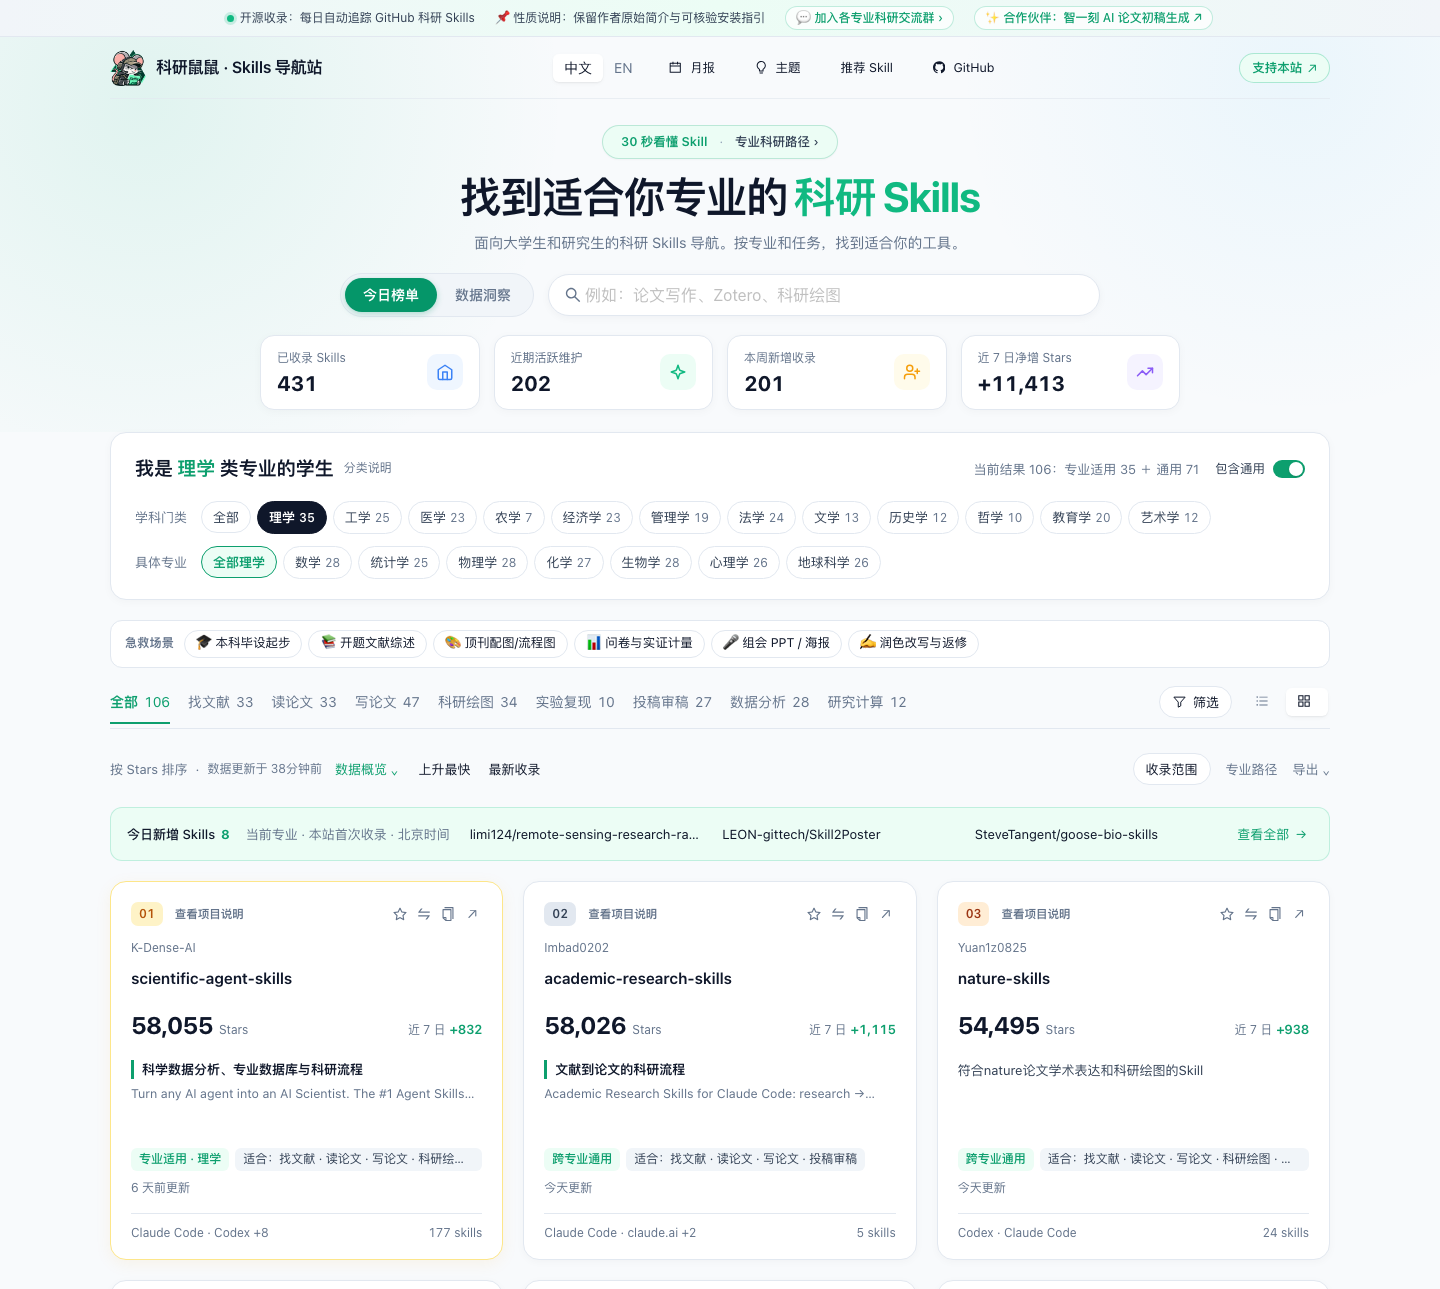
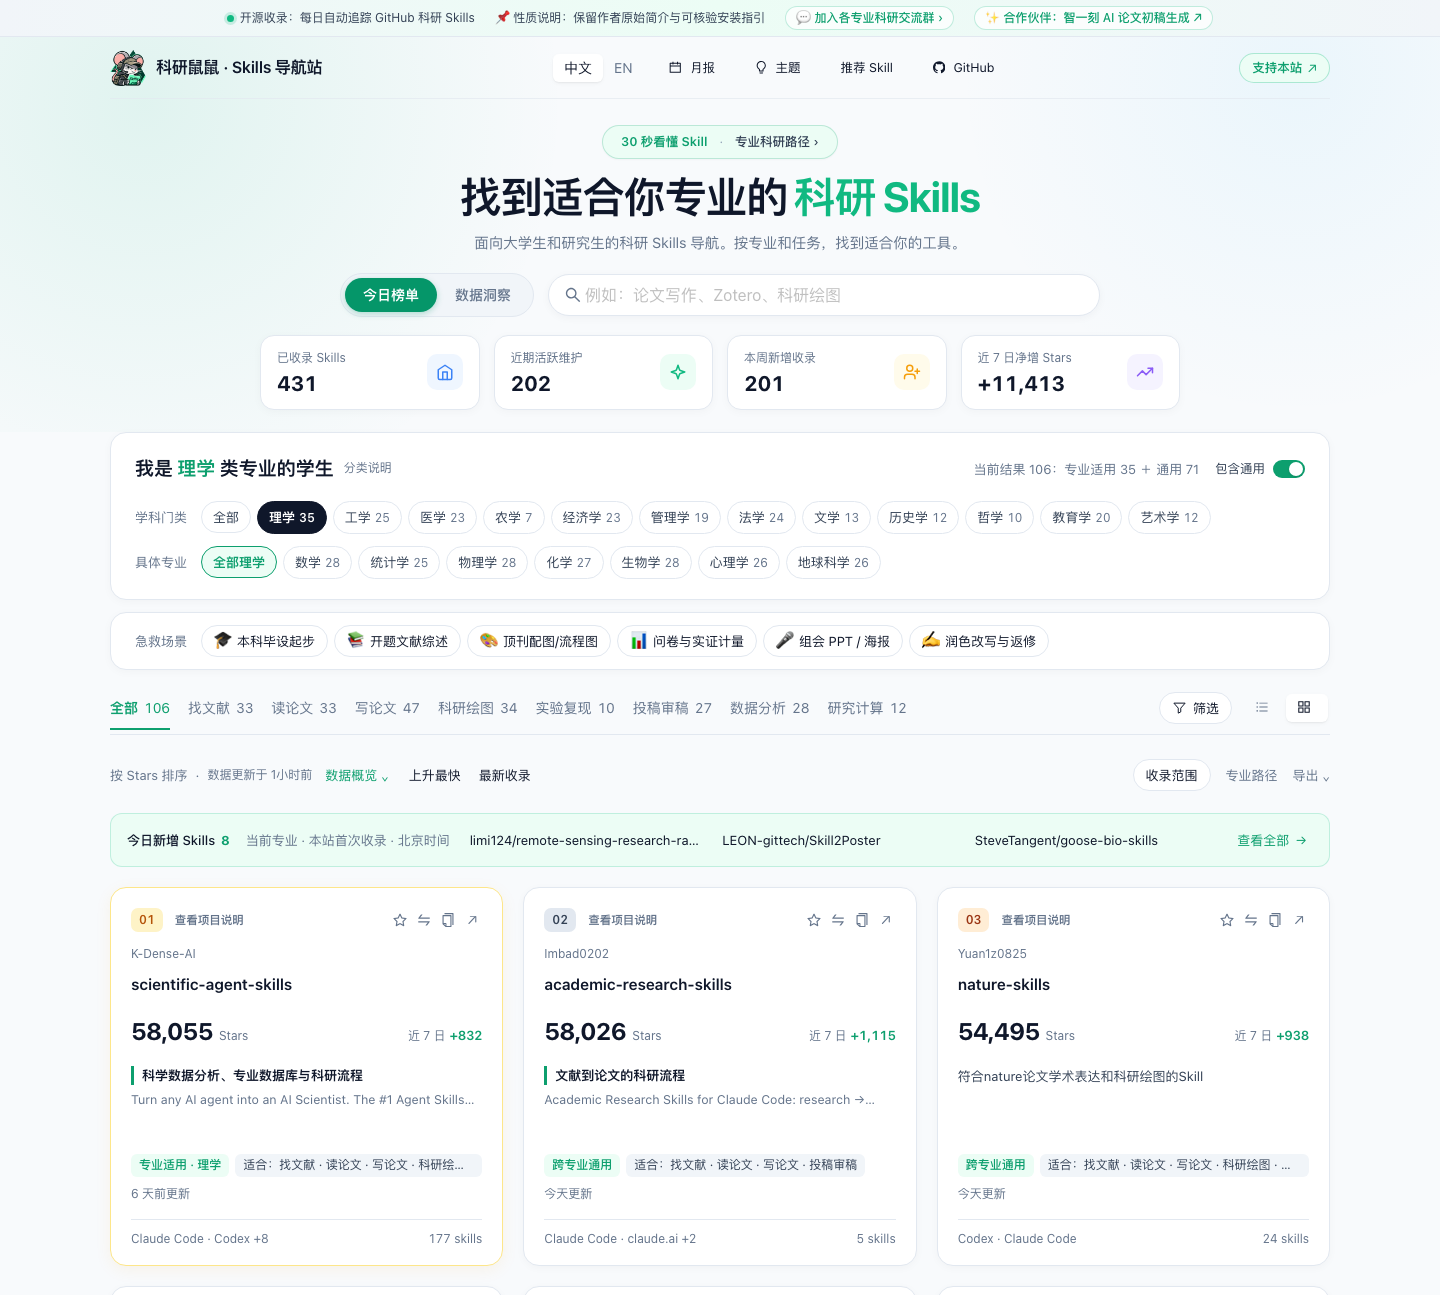
style: 对齐急救场景栏、拉开表格行间距并新增视图切换骨架动画

diff --git a/src/styles.css b/src/styles.css
@@ -1582,22 +1582,54 @@ h1 em {
 /* Motion owns movement; CSS retains theme and focus feedback. */
 .repository-card[data-motion="card"] { transition-property: border-color, background-color, box-shadow; }
 
-/* 论文阶段急救包（Stage Quick-Picks） */
-.stage-quick-bar { margin: 10px 0 8px; padding: 9px 14px; border: 1px solid var(--prs-border); border-radius: 12px; background: var(--prs-panel); }
-.stage-quick-row { display: flex; align-items: center; gap: 10px; min-width: 0; }
-.stage-quick-label { flex: 0 0 auto; font-size: 12px; font-weight: 600; color: var(--prs-muted); letter-spacing: 0.02em; }
+/* 论文阶段急救包（Stage Quick-Picks，与上方学科门类栏严格左对齐与垂直居中） */
+.stage-quick-bar { margin: 0 0 12px; padding: 12px 24px; border: 1px solid var(--prs-border); border-radius: 16px; background: var(--prs-panel); box-shadow: 0 2px 10px rgba(15, 23, 42, 0.03); }
+.stage-quick-row { display: flex; align-items: center; gap: 6px; min-width: 0; }
+.stage-quick-label { flex: 0 0 60px; display: inline-flex; align-items: center; height: 32px; font-size: 13px; line-height: 20px; font-weight: 400; color: var(--prs-muted); }
 .stage-pill-list { display: flex; align-items: center; flex-wrap: wrap; gap: 6px; min-width: 0; }
-.stage-pill { display: inline-flex; align-items: center; height: 28px; padding: 0 11px; border-radius: 999px; border: 1px solid var(--prs-border); background: transparent; color: var(--prs-text); font: inherit; font-size: 12.5px; line-height: 1; white-space: nowrap; cursor: pointer; transition: border-color .16s ease, background-color .16s ease, color .16s ease; }
+.stage-pill { display: inline-flex; align-items: center; justify-content: center; gap: 5px; height: 32px; padding: 0 12px; border-radius: 999px; border: 1px solid var(--prs-border); background: var(--prs-panel); color: var(--prs-text); font: inherit; font-size: 13px; line-height: 20px; white-space: nowrap; cursor: pointer; transition: border-color .16s ease, background-color .16s ease, color .16s ease; }
+.stage-pill-icon { display: inline-flex; align-items: center; justify-content: center; font-size: 14px; line-height: 1; }
+.stage-pill-text { display: inline-flex; align-items: center; line-height: 20px; }
 .stage-pill:hover { border-color: var(--prs-primary); color: var(--prs-primary); }
 .stage-pill.is-active { border-color: var(--prs-primary); background: rgba(13, 159, 110, 0.12); color: var(--prs-primary); font-weight: 600; }
 [data-theme="dark"] .stage-pill.is-active { background: rgba(16, 185, 129, 0.22); }
-.stage-quick-hint { display: flex; align-items: center; justify-content: space-between; gap: 12px; margin: 8px 0 0; padding-top: 7px; border-top: 1px dashed var(--prs-border); font-size: 12.5px; color: var(--prs-muted); }
+.stage-quick-hint { display: flex; align-items: center; justify-content: space-between; gap: 12px; margin: 10px 0 0; padding-top: 8px; border-top: 1px dashed var(--prs-border); font-size: 12.5px; color: var(--prs-muted); }
 .stage-clear-inline { border: 0; background: transparent; color: var(--prs-primary); font: inherit; font-size: 12.5px; cursor: pointer; padding: 0; white-space: nowrap; }
 @media (max-width: 760px) {
-  .stage-quick-bar { padding: 8px 10px; }
+  .stage-quick-bar { padding: 10px 12px; margin-bottom: 10px; border-radius: 12px; }
   .stage-quick-row { gap: 8px; }
+  .stage-quick-label { flex: 0 0 auto; white-space: nowrap; }
   .stage-pill-list { flex-wrap: nowrap; overflow-x: auto; scrollbar-width: none; padding-bottom: 2px; }
   .stage-pill-list::-webkit-scrollbar { display: none; }
+}
+
+/* 列表视图切换加载骨架屏与动画（Table Loading Skeleton） */
+@keyframes prs-spin {
+  to { transform: rotate(360deg); }
+}
+@keyframes prs-shimmer {
+  0% { background-position: 100% 0; }
+  100% { background-position: -100% 0; }
+}
+.table-loading-shell { padding: 16px 14px 12px; }
+.table-loading-indicator { display: inline-flex; align-items: center; gap: 9px; margin-bottom: 12px; padding: 6px 12px; border-radius: 999px; background: rgba(13, 159, 110, 0.08); color: var(--prs-primary); font-size: 13px; font-weight: 500; }
+[data-theme="dark"] .table-loading-indicator { background: rgba(16, 185, 129, 0.16); }
+.table-loading-spinner { width: 15px; height: 15px; border-radius: 50%; border: 2px solid rgba(13, 159, 110, 0.24); border-top-color: var(--prs-primary); animation: prs-spin 0.68s linear infinite; }
+.table-loading-rows { display: flex; flex-direction: column; border-top: 1px solid var(--prs-border); }
+.table-loading-row { display: grid; grid-template-columns: 44px minmax(0, 1fr) 120px 110px 88px; align-items: center; gap: 16px; height: 84px; padding: 12px 10px; border-bottom: 1px solid var(--prs-border); box-sizing: border-box; }
+.skel-repo-col { display: flex; flex-direction: column; gap: 8px; min-width: 0; }
+.skel-block { display: block; border-radius: 6px; background: linear-gradient(90deg, rgba(148, 163, 184, 0.14) 25%, rgba(148, 163, 184, 0.28) 50%, rgba(148, 163, 184, 0.14) 75%); background-size: 200% 100%; animation: prs-shimmer 1.25s ease-in-out infinite; }
+.skel-rank { width: 28px; height: 22px; }
+.skel-title { width: 46%; height: 16px; }
+.skel-sub { width: 78%; height: 13px; }
+.skel-pill { width: 88px; height: 22px; border-radius: 999px; }
+.skel-metric { width: 72px; height: 24px; justify-self: end; }
+@media (max-width: 760px) {
+  .table-loading-row { grid-template-columns: 36px minmax(0, 1fr) 72px; }
+  .table-loading-row > .skel-pill { display: none; }
+}
+@media (prefers-reduced-motion: reduce) {
+  .table-loading-spinner, .skel-block { animation: none; }
 }
 
 /* 同门分享清单横幅与触发按钮（Shared Toolkit Pack） */

diff --git a/tests/frontend/student-ux.spec.js b/tests/frontend/student-ux.spec.js
@@ -7,9 +7,30 @@ test("stage quick-picks, shared toolkit pack banner, and zero-CLI Web AI guide w
   await page.setViewportSize({ width: 1440, height: 1000 });
   await page.goto("./");
 
-  // 1. 论文阶段急救包筛选
+  // 1. 论文阶段急救包对齐与筛选
   const stageBar = page.getByTestId("stage-quick-bar");
   await expect(stageBar).toBeVisible();
+  const stageAlignment = await page.evaluate(() => {
+    const discLabel = document
+      .querySelector(".discipline-row-label")
+      .getBoundingClientRect();
+    const stageLabel = document
+      .querySelector(".stage-quick-label")
+      .getBoundingClientRect();
+    const firstPill = document
+      .querySelector(".stage-pill")
+      .getBoundingClientRect();
+    return {
+      leftDelta: Math.abs(discLabel.left - stageLabel.left),
+      centerYDelta: Math.abs(
+        stageLabel.top +
+          stageLabel.height / 2 -
+          (firstPill.top + firstPill.height / 2),
+      ),
+    };
+  });
+  expect(stageAlignment.leftDelta).toBeLessThan(1);
+  expect(stageAlignment.centerYDelta).toBeLessThan(1);
   await stageBar.locator('[data-stage="slides"]').click();
   await expect(page).toHaveURL(/#.*stage=slides/);
   await expect(page.getByTestId("stage-quick-hint")).toBeVisible();
@@ -63,4 +84,22 @@ test("stage quick-picks, shared toolkit pack banner, and zero-CLI Web AI guide w
   // 4. 30 秒看懂 Skill 弹窗包含零命令行网页版兜底说明
   await page.locator(".beginner-entry").click();
   await expect(page.getByTestId("guide-web-fallback")).toBeVisible();
+});
+
+test("switching from card view to table view shows animated skeleton instead of plain loading text", async ({
+  page,
+}) => {
+  await page.setViewportSize({ width: 1440, height: 900 });
+  await page.route("**/assets/RepositoryTable-*.js", async (route) => {
+    await new Promise((resolve) => setTimeout(resolve, 350));
+    await route.continue();
+  });
+  await page.goto("./#view=card");
+  await expect(page.getByTestId("repo-card").first()).toBeVisible();
+  await page
+    .getByRole("radio", { name: "表格", exact: true })
+    .locator("..")
+    .click();
+  await expect(page.getByTestId("table-loading-skeleton")).toBeVisible();
+  await expect(page.locator(".ant-table-row").first()).toBeVisible();
 });

diff --git a/src/components/RepositoryViews.jsx b/src/components/RepositoryViews.jsx
@@ -136,6 +136,37 @@ export function RepositoryActions({
     </Space>
   );
 }
+function TableLoadingFallback({ lang }) {
+  const zh = lang === "zh";
+  return (
+    <div
+      className="table-loading-shell"
+      role="status"
+      aria-live="polite"
+      aria-busy="true"
+      data-testid="table-loading-skeleton"
+    >
+      <div className="table-loading-indicator">
+        <span className="table-loading-spinner" aria-hidden="true" />
+        <span>{zh ? "正在切换列表视图…" : "Switching to table view…"}</span>
+      </div>
+      <div className="table-loading-rows" aria-hidden="true">
+        {Array.from({ length: 6 }, (_, idx) => (
+          <div key={idx} className="table-loading-row">
+            <span className="skel-block skel-rank" />
+            <div className="skel-repo-col">
+              <span className="skel-block skel-title" />
+              <span className="skel-block skel-sub" />
+            </div>
+            <span className="skel-block skel-pill" />
+            <span className="skel-block skel-pill" />
+            <span className="skel-block skel-metric" />
+          </div>
+        ))}
+      </div>
+    </div>
+  );
+}
 export function RepositoryViews({
   generatedAt,
   items,
@@ -382,7 +413,10 @@ export function RepositoryViews({
     );
   return (
     <>
-      <DeferredFeature t={t}>
+      <DeferredFeature
+        t={t}
+        loadingFallback={<TableLoadingFallback lang={state.lang} />}
+      >
         <RepositoryTable
           onReady={onReady}
           className="ranking-table"
@@ -391,7 +425,7 @@ export function RepositoryViews({
           badges={(item) => <QualityBadges item={item} t={t} />}
           dataSource={entries}
           pagination={false}
-          scroll={{ x: 1180 }}
+          scroll={{ x: 1220 }}
           tableLayout="fixed"
           sticky={{ offsetHeader: filterHeight }}
           size="middle"

diff --git a/src/indigo.css b/src/indigo.css
@@ -1795,16 +1795,19 @@ a:focus-visible,
 }
 .ranking-table .ant-table-tbody > tr.ant-table-row > td,
 .ranking-table.ant-table-wrapper .ant-table-tbody > tr.ant-table-row > td.ant-table-cell {
-  height: 60px;
-  padding: 4px 10px;
+  height: 84px;
+  padding: 12px 14px;
   box-sizing: border-box;
   overflow: hidden;
 }
 .ranking-table .ant-table-thead > tr > th {
-  padding: 10px;
+  padding: 12px 14px;
   white-space: nowrap;
 }
 .table-repository {
+  display: flex;
+  flex-direction: column;
+  gap: 4px;
   min-width: 0;
 }
 .table-repository .repo-name {
@@ -1825,7 +1828,7 @@ a:focus-visible,
   white-space: nowrap;
   text-overflow: ellipsis;
   font-size: 13px;
-  line-height: 18px;
+  line-height: 20px;
 }
 .ranking-table .card-platforms {
   display: block;
@@ -2543,7 +2546,7 @@ a:focus-visible,
 
 /* Discipline-first discovery (styled with reference dark-slate active pill) */
 .discipline-selector {
-  margin: 0 0 20px;
+  margin: 0 0 12px;
   padding: 20px 24px;
   border: 1px solid var(--prs-border);
   border-radius: 16px;
@@ -3796,22 +3799,22 @@ a:focus-visible,
 .ranking-table .practical-description.has-curated-use {
   display: flex;
   flex-direction: column;
-  gap: 1px;
-  margin-top: 1px;
+  gap: 3px;
+  margin-top: 0;
 }
 .ranking-table .curated-use-line {
-  font-size: 12px;
-  line-height: 15px;
-  height: 15px;
-  max-height: 15px;
+  font-size: 12.5px;
+  line-height: 18px;
+  height: 18px;
+  max-height: 18px;
   -webkit-line-clamp: 1;
-  padding-left: 6px;
+  padding-left: 7px;
   border-left-width: 2px;
 }
 .ranking-table .practical-description.has-curated-use .description-clamp {
-  font-size: 11.5px;
-  line-height: 15px;
-  height: 15px;
+  font-size: 12px;
+  line-height: 18px;
+  height: 18px;
   -webkit-line-clamp: 1;
   color: var(--prs-muted);
   margin: 0;

diff --git a/tests/frontend/visit-counter.spec.js b/tests/frontend/visit-counter.spec.js
@@ -3,9 +3,13 @@ const site='https://riceai985.cc/';
 for(const entry of ['', 'en/'])test(`footer has no public counter or Busuanzi requests at ${entry||'Chinese entry'}`,async({page})=>{
  await page.addInitScript(()=>Object.defineProperty(navigator,'webdriver',{get:()=>false}));
  await page.route('https://riceai985.cc/**',async route=>{
-  const url=new URL(route.request().url());
-  const response=await route.fetch({url:`http://127.0.0.1:4173${url.pathname}${url.search}`});
-  await route.fulfill({response});
+  try {
+   const url=new URL(route.request().url());
+   const response=await route.fetch({url:`http://127.0.0.1:4173${url.pathname}${url.search}`});
+   await route.fulfill({response});
+  } catch {
+   /* Ignore in-flight lazy chunk fetches aborted when the page closes at test end. */
+  }
  });
  let requests=0;
  await page.route('https://busuanzi.9420.ltd/api',route=>{requests++;return route.fulfill({json:{success:true,data:{page_pv:100,page_uv:50}}});});

diff --git a/src/App.jsx b/src/App.jsx
@@ -771,6 +771,7 @@ function Dashboard({ state, update }) {
             <div className="stage-pill-list">
               {RESEARCH_STAGES.map((stage) => {
                 const active = state.stage === stage.id;
+                const [icon, ...labelParts] = stage[state.lang].split(" ");
                 return (
                   <button
                     key={stage.id}
@@ -787,7 +788,12 @@ function Dashboard({ state, update }) {
                       }))
                     }
                   >
-                    {stage[state.lang]}
+                    <span className="stage-pill-icon" aria-hidden="true">
+                      {icon}
+                    </span>
+                    <span className="stage-pill-text">
+                      {labelParts.join(" ")}
+                    </span>
                   </button>
                 );
               })}

diff --git a/tests/frontend/browse-install.spec.js b/tests/frontend/browse-install.spec.js
@@ -25,8 +25,8 @@ test("dense table bounds scenes, omits empty tags and supports header sorting", 
   const heights = await rows.evaluateAll((nodes) =>
     nodes.slice(0, 8).map((node) => node.getBoundingClientRect().height),
   );
-  expect(Math.max(...heights)).toBeLessThanOrEqual(64);
-  expect(Math.min(...heights)).toBeGreaterThanOrEqual(56);
+  expect(Math.max(...heights)).toBeLessThanOrEqual(88);
+  expect(Math.min(...heights)).toBeGreaterThanOrEqual(80);
   await expect(
     page.getByRole("columnheader", { name: "场景", exact: true }),
   ).toBeVisible();

diff --git a/tests/frontend/browsing.spec.js b/tests/frontend/browsing.spec.js
@@ -82,6 +82,7 @@ test("drawer follows filtered sort, resets its content scroll and returns to the
 test("drawer navigation respects first, last, single and out-of-results shared entries", async ({
   page,
 }) => {
+  test.setTimeout(60000);
   await page.goto("./#related=1&view=table");
   await openRow(page, 0);
   await expect(page.getByTestId("detail-previous")).toBeDisabled();

diff --git a/src/components/RepositoryTable.jsx b/src/components/RepositoryTable.jsx
@@ -108,7 +108,7 @@ export default function RepositoryTable({
     {
       title: t("repo"),
       key: "repo",
-      width: 320,
+      width: 360,
       render: (_, item) => (
         <div className="table-repository">
           {link(item)}
